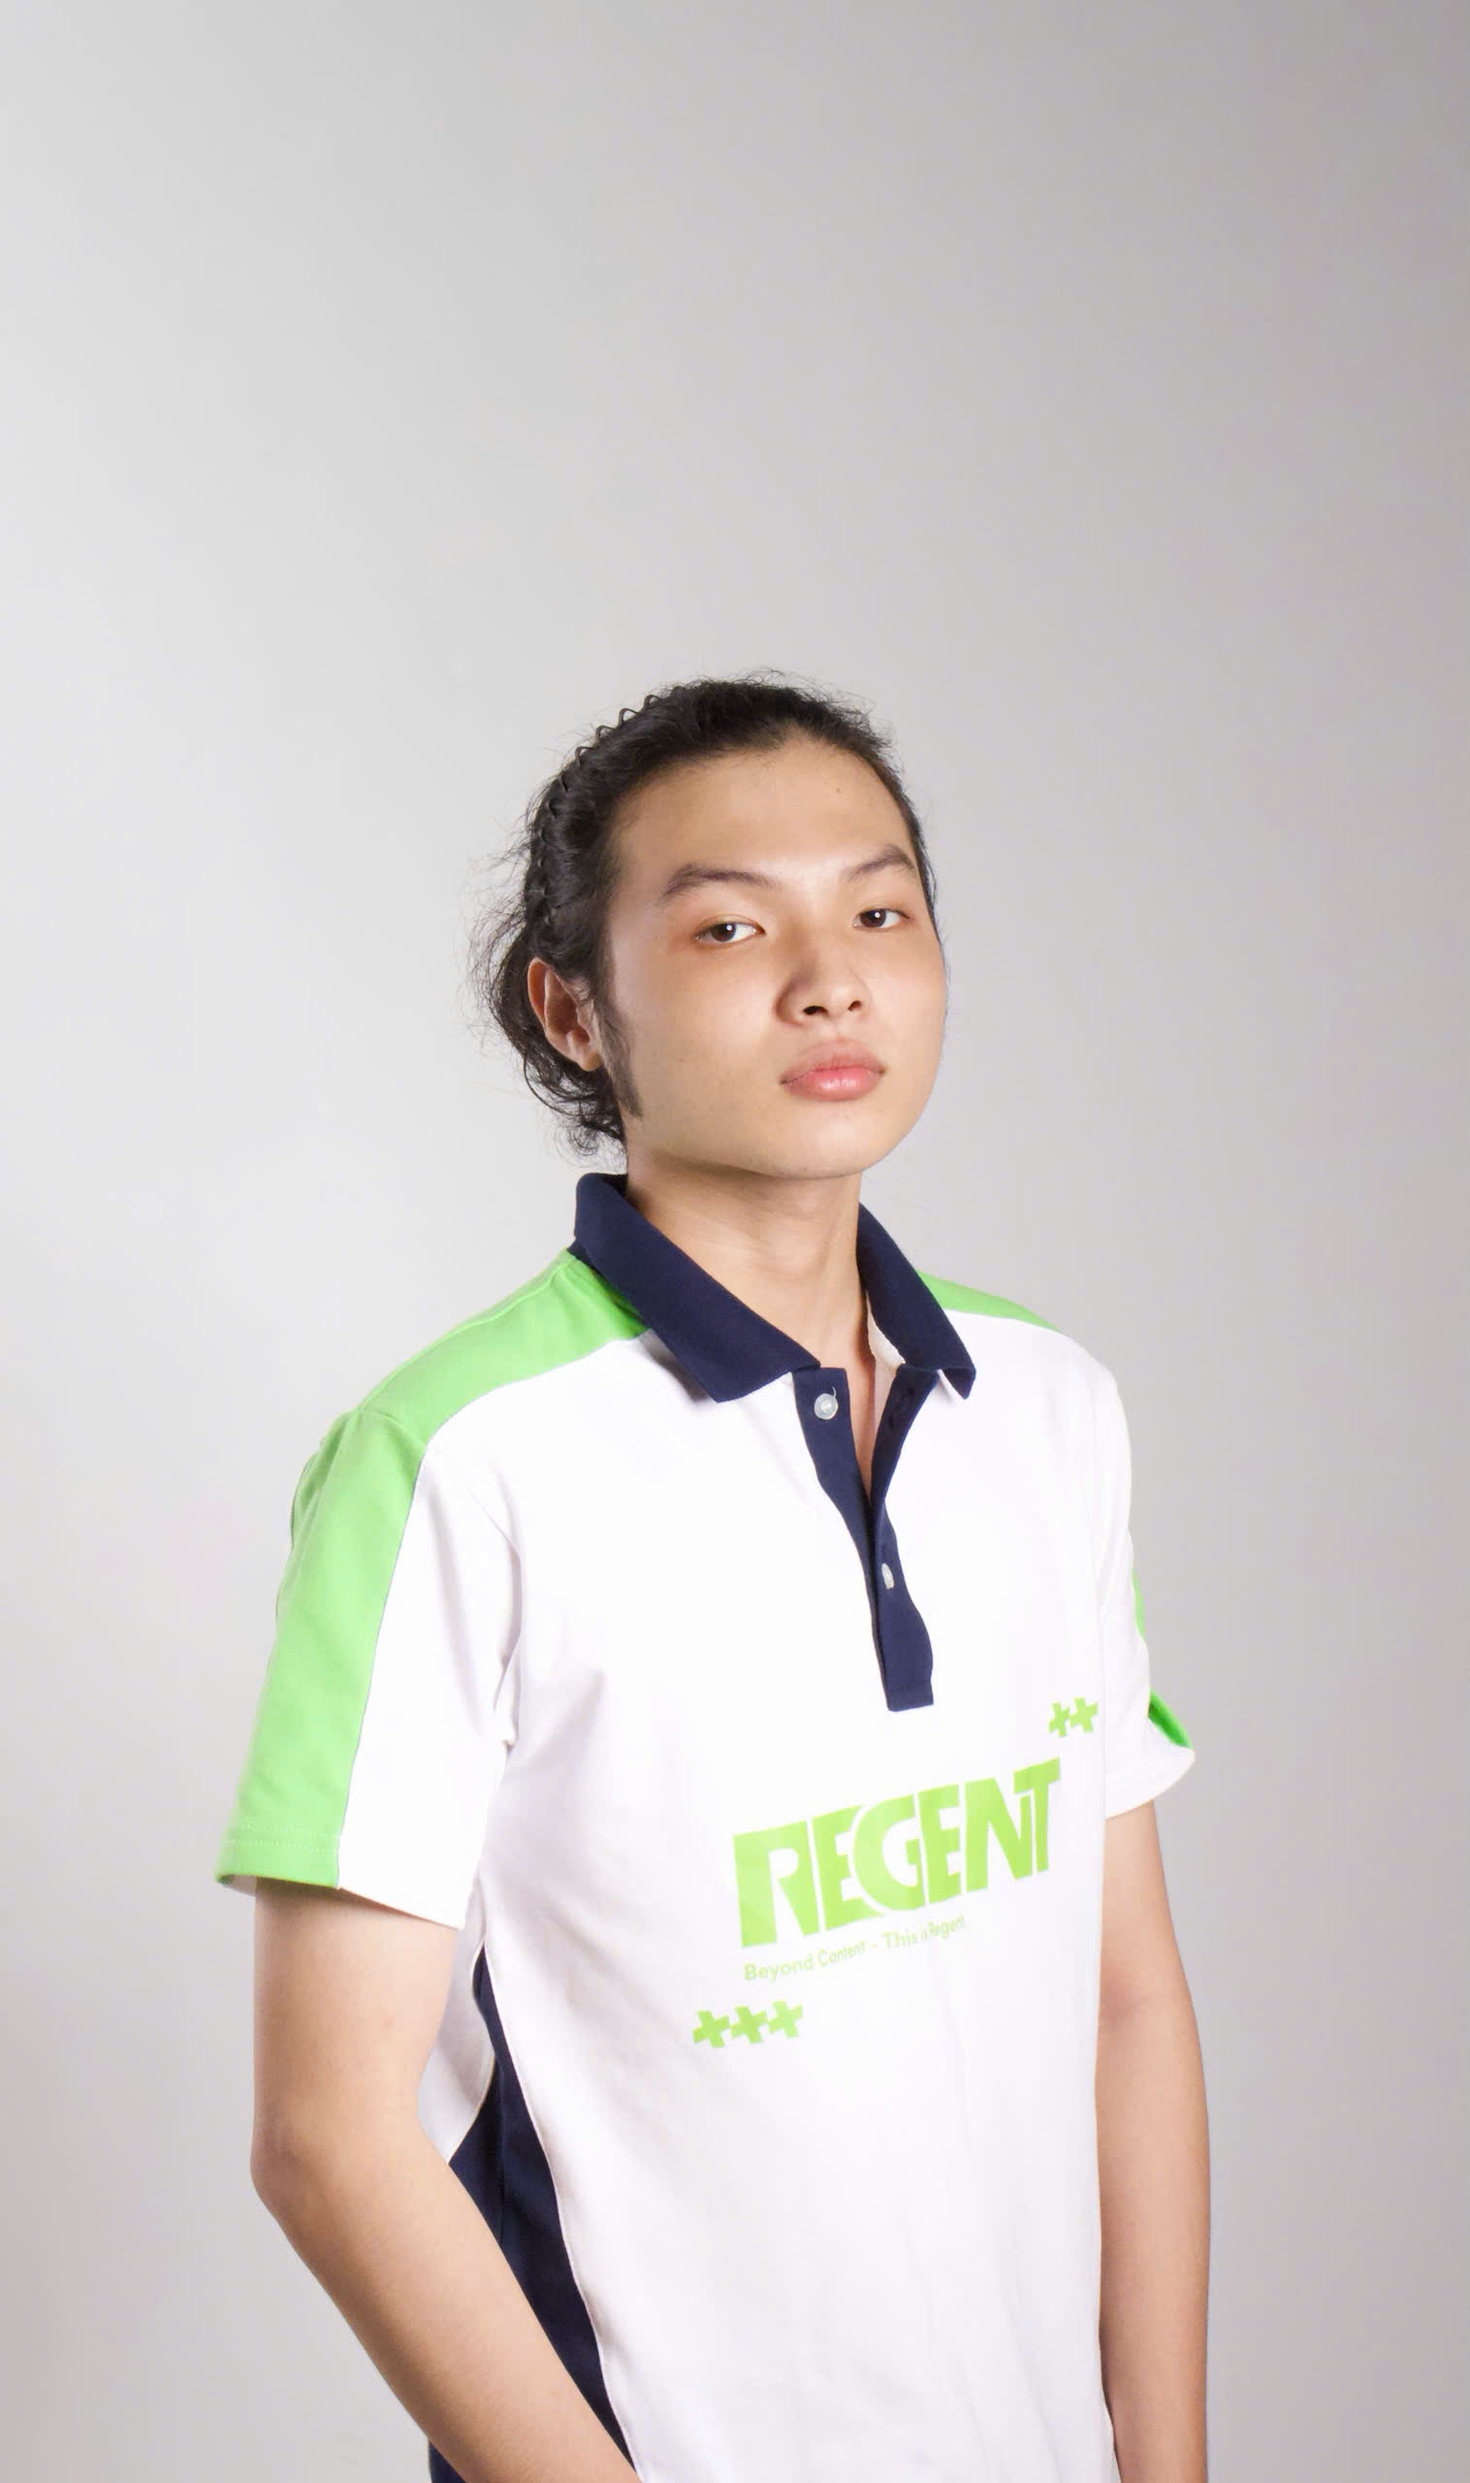
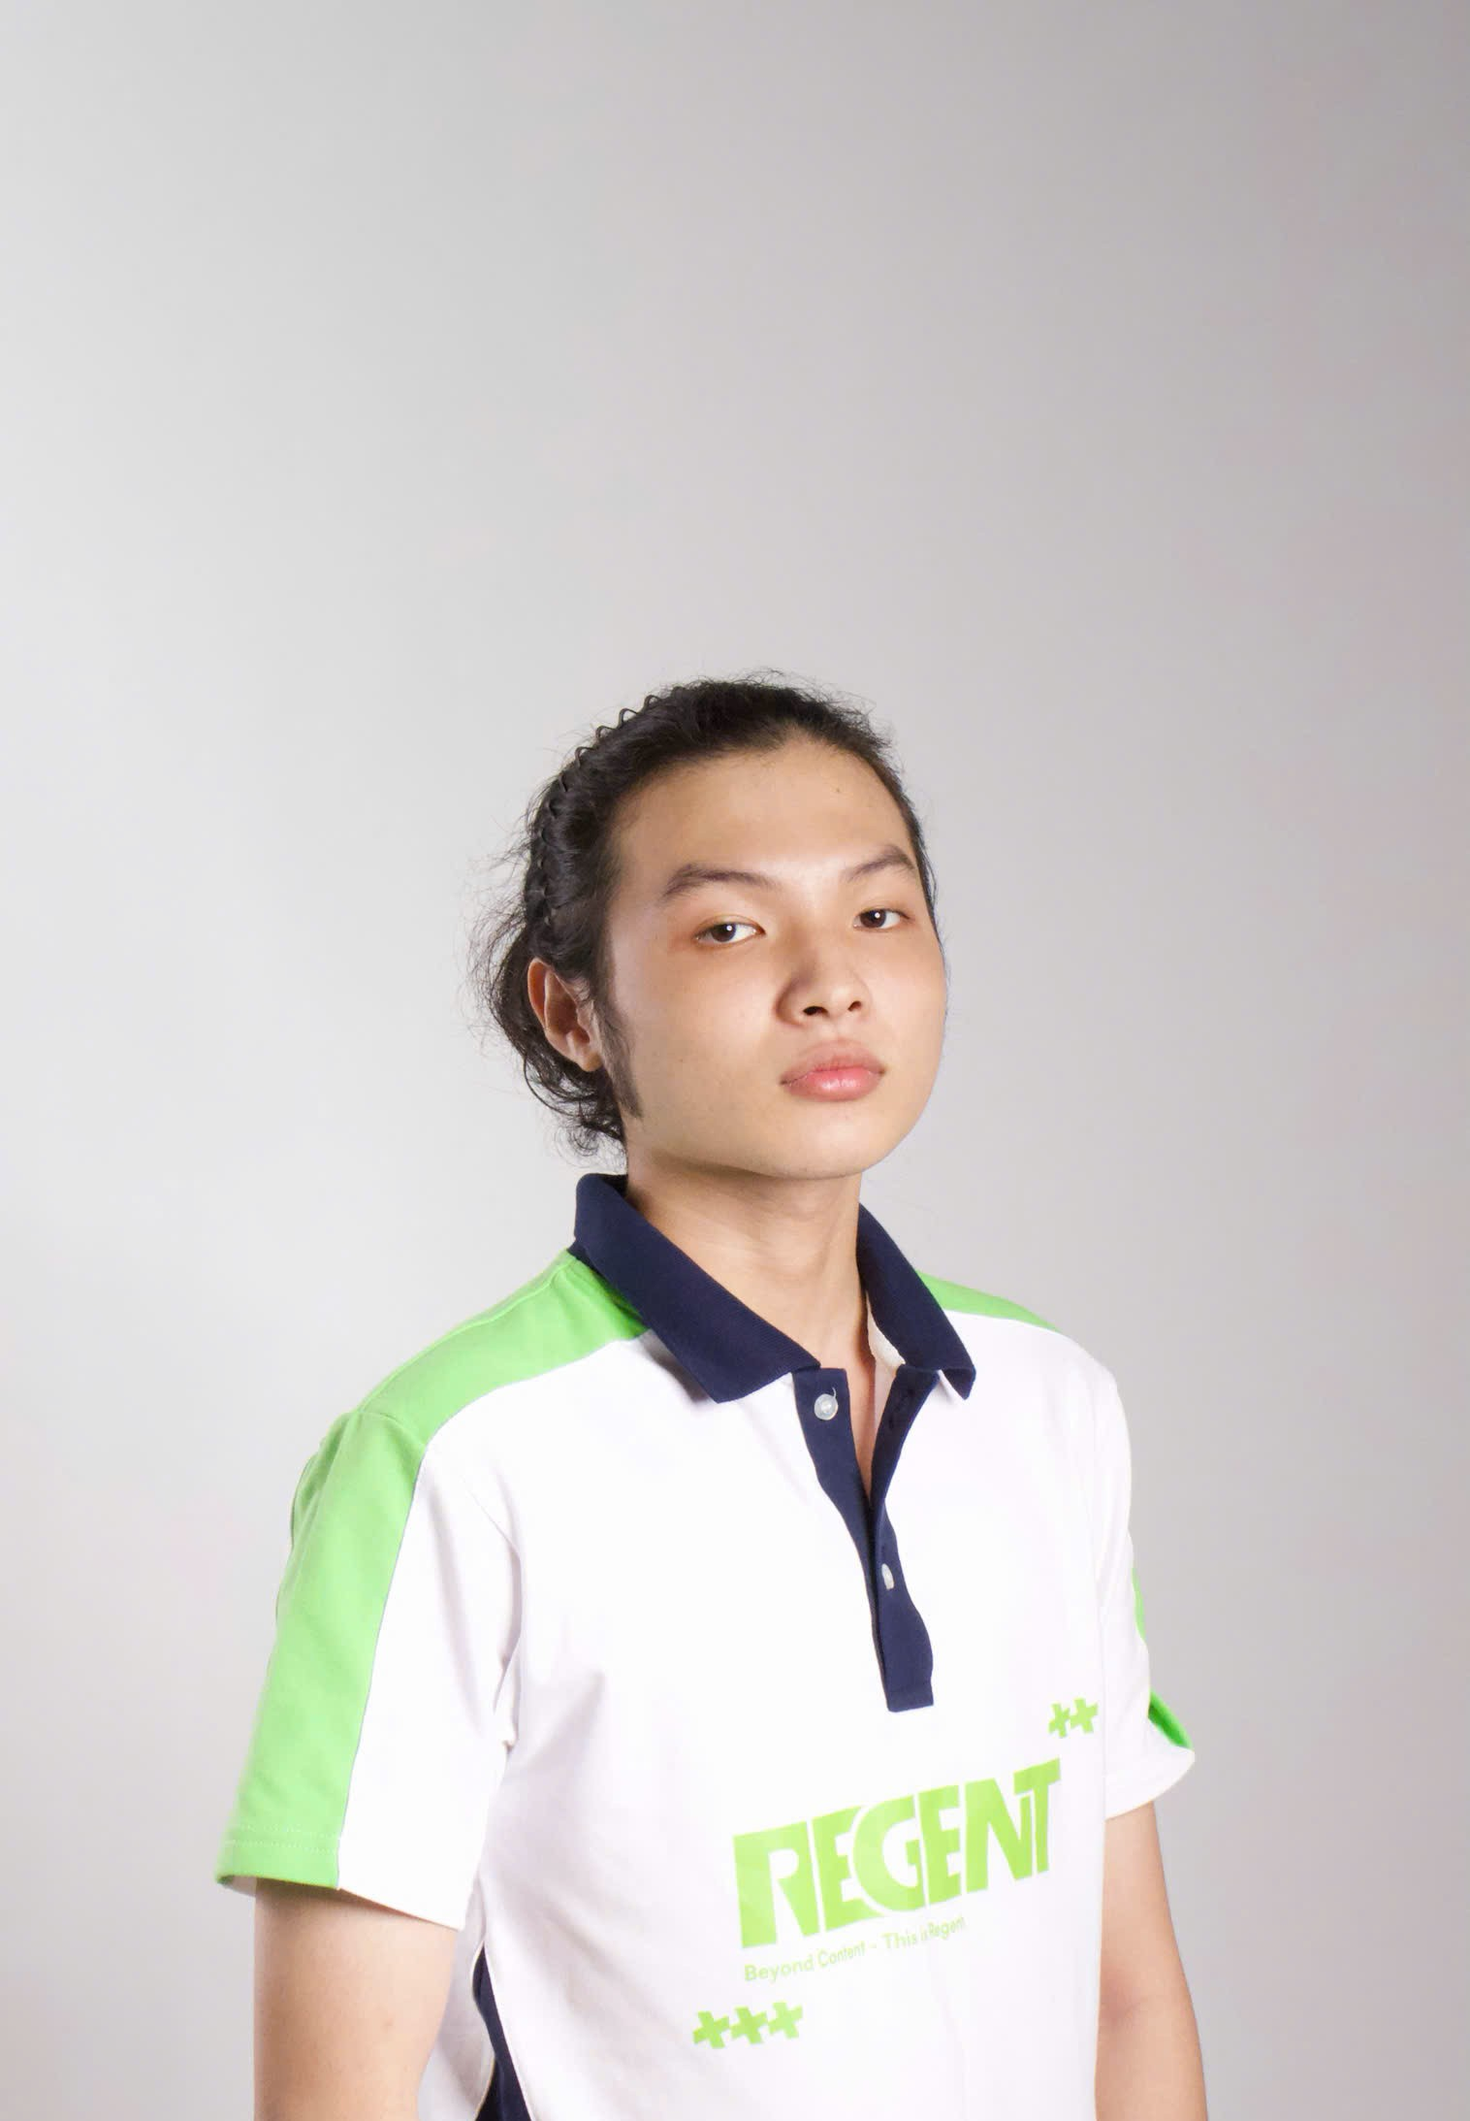
fix(images-all-members): scale

Changed region(s): [[0.124, 0.2489, 0.8371, 1.0]]

diff --git a/components/TermSection.tsx b/components/TermSection.tsx
@@ -15,7 +15,7 @@ const teamMembers: TeamMember[] = [
   {
     name: "Lê Quang Trường",
     image:
-      "/images/lequangtruong.jpg",
+      "/images/truong.jpg",
     bioKey: "leQuangTruong",
   },
   {
@@ -27,7 +27,7 @@ const teamMembers: TeamMember[] = [
   {
     name: "Cao Trường Kha",
     image:
-      "/images/kha2.jpg",
+      "/images/khaaa.jpg",
     bioKey: "caoTruongKha",
   },
   {
